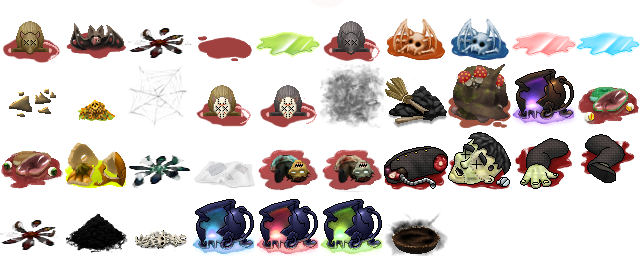
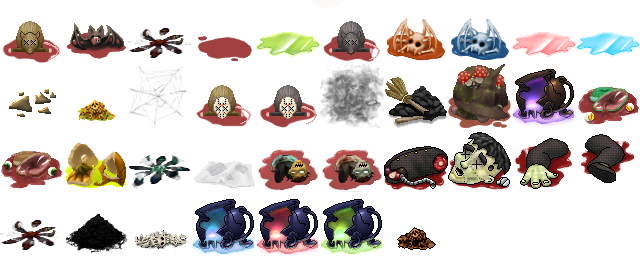
ADD New monster : Tarantula

Changed region(s): [[0.5938, 0.8438, 0.7188, 1.0]]

diff --git a/src/WitchBlastGame.cpp b/src/WitchBlastGame.cpp
@@ -1235,7 +1235,8 @@ void WitchBlastGame::updateRunningGame()
         {
           initMonsterArray();
           findPlaceMonsters(EnemyTypeSpiderEgg_invocated, 2);
-          findPlaceMonsters(EnemyTypeSpiderLittle_invocated, 2);
+          findPlaceMonsters(EnemyTypeSpiderLittle, 2);
+          findPlaceMonsters(EnemyTypeSpiderTarantula, 2);
         }
       }
       if (event.key.code == sf::Keyboard::F12)
@@ -1257,8 +1258,12 @@ void WitchBlastGame::updateRunningGame()
       }
       if (event.key.code == sf::Keyboard::F4)
       {
-        for (int i = 0; i < NUMBER_ITEMS - NUMBER_EQUIP_ITEMS; i++)
-          new ItemEntity((enumItemType)i, 100 + (i % 14) * 58, 100 + (i / 14) * 60);
+        if (sf::Keyboard::isKeyPressed(sf::Keyboard::LAlt))
+          for (int i = 0; i < NUMBER_ITEMS - NUMBER_EQUIP_ITEMS; i++)
+            new ItemEntity((enumItemType)i, 100 + (i % 14) * 58, 100 + (i / 14) * 60);
+        else
+          for (int i = NUMBER_ITEMS - NUMBER_EQUIP_ITEMS; i < NUMBER_ITEMS; i++)
+            new ItemEntity((enumItemType)i, 100 + (i % 14) * 58, 100 + (i / 14) * 60);
       }
 #endif // TEST_MODE
     }
@@ -3855,7 +3860,7 @@ void WitchBlastGame::refreshMap()
   EntityManager::getInstance().partialClean(10);
 
   // if new map, it has to be randomized
-  bool generateMap = !(currentFloor->getMap(floorX, floorY)->isVisited());
+  bool generateMap =  !(currentFloor->getMap(floorX, floorY)->isVisited());
   currentMap = currentFloor->getAndVisitMap(floorX, floorY);
 
   // load the map
@@ -4625,8 +4630,14 @@ void WitchBlastGame::addMonster(enemyTypeEnum monsterType, float xm, float ym)
   case EnemyTypeSpiderEgg:
     new SpiderEggEntity(xm, ym, false);
     break;
+  case EnemyTypeSpiderEgg_invocated:
+    new SpiderEggEntity(xm, ym, true);
+    break;
   case EnemyTypeSpiderLittle:
-    new LittleSpiderEntity(xm, ym, false);
+    new LittleSpiderEntity(xm, ym, SpiderTypeStandard, false);
+    break;
+  case EnemyTypeSpiderTarantula:
+    new LittleSpiderEntity(xm, ym, SpiderTypeTarantula, false);
     break;
   case EnemyTypeGhost:
     new GhostEntity(xm, ym);
@@ -4644,11 +4655,11 @@ void WitchBlastGame::addMonster(enemyTypeEnum monsterType, float xm, float ym)
     new SausageEntity(xm, ym, false);
     break;
 
-  case EnemyTypeSpiderEgg_invocated:
-    new SpiderEggEntity(xm, ym, true);
-    break;
   case EnemyTypeSpiderLittle_invocated:
-    new LittleSpiderEntity(xm, ym, true);
+    new LittleSpiderEntity(xm, ym, SpiderTypeStandard, true);
+    break;
+  case EnemyTypeSpiderTarantula_invocated:
+    new LittleSpiderEntity(xm, ym, SpiderTypeTarantula, true);
     break;
 
   case EnemyTypeBubble:
@@ -6675,6 +6686,10 @@ std::string WitchBlastGame::enemyToString(enemyTypeEnum enemyType)
   case EnemyTypeSpiderLittle:
   case EnemyTypeSpiderLittle_invocated:
     value = "enemy_type_spider_little";
+    break;
+  case EnemyTypeSpiderTarantula:
+  case EnemyTypeSpiderTarantula_invocated:
+    value = "enemy_type_spider_tarantula";
     break;
   case EnemyTypeSpiderWeb:
     value = "enemy_type_spider_web";

diff --git a/src/LittleSpiderEntity.cpp b/src/LittleSpiderEntity.cpp
@@ -7,7 +7,7 @@
 #include "Constants.h"
 #include "WitchBlastGame.h"
 
-LittleSpiderEntity::LittleSpiderEntity(float x, float y, bool invocated)
+LittleSpiderEntity::LittleSpiderEntity(float x, float y, EnumSpiderType spideType, bool invocated)
   : EnemyEntity (ImageManager::getInstance().getImage(IMAGE_LITTLE_SPIDER), x, y)
 {
   imagesProLine = 8;
@@ -16,17 +16,33 @@ LittleSpiderEntity::LittleSpiderEntity(float x, float y, bool invocated)
   hp = 16;
   meleeDamages = 5;
 
+  this->spideType = spideType;
+  if (spideType == SpiderTypeTarantula)
+  {
+    enemyType = invocated ? EnemyTypeSpiderTarantula_invocated : EnemyTypeSpiderTarantula;
+    frame = 8;
+    deathFrame = FRAME_CORPSE_LITTLE_SPIDER_TARANTULA;
+    dyingFrame = 11;
+  }
+  else
+  {
+    enemyType = invocated ? EnemyTypeSpiderLittle_invocated : EnemyTypeSpiderLittle;
+    frame = 0;
+    deathFrame = FRAME_CORPSE_LITTLE_SPIDER;
+    dyingFrame = 3;
+  }
+
+
   type = invocated ? ENTITY_ENEMY_INVOCATED : ENTITY_ENEMY;
-  enemyType = invocated ? EnemyTypeSpiderLittle_invocated : EnemyTypeSpiderLittle;
+
   bloodColor = BloodGreen;
   shadowFrame = 4;
-  dyingFrame = 3;
-  deathFrame = FRAME_CORPSE_LITTLE_SPIDER;
+
+
   agonizingSound = SOUND_SPIDER_LITTLE_DIE;
 
   timer = -1.0f; //(rand() % 50) / 10.0f;
   if (invocated) age = 0.0f;
-  frame = 8;
 
   sprite.setOrigin(32.0f, 40.0f);
 
@@ -46,6 +62,8 @@ void LittleSpiderEntity::animate(float delay)
       roaming = false;
     }
     frame = ((int)(age * (roaming ? 1.5f : 5.0f))) % 3;
+    if (spideType == SpiderTypeTarantula)
+      frame += 8;
   }
 
   EnemyEntity::animate(delay);
@@ -103,6 +121,6 @@ void LittleSpiderEntity::collideWithEnemy(EnemyEntity* entity)
 
 void LittleSpiderEntity::drop()
 {
-  if (enemyType == EnemyTypeSpiderLittle)
+  if (type == ENTITY_ENEMY)
     EnemyEntity::drop();
 }

diff --git a/src/Scoring.h b/src/Scoring.h
@@ -49,6 +49,9 @@ int getMonsterScore(enemyTypeEnum monster)
 
     case EnemyTypePumpkin:        score = 15; break;
 
+    case EnemyTypeSpiderTarantula:
+                                  score = 20; break;
+
     case EnemyTypeWitch:          score = 25; break;
     case EnemyTypeWitchRed:       score = 25; break;
     case EnemyTypeCauldron:       score = 25; break;
@@ -93,6 +96,7 @@ int getMonsterScore(enemyTypeEnum monster)
     case EnemyTypeRockMissile:
     case EnemyTypeSpiderEgg_invocated:
     case EnemyTypeSpiderLittle_invocated:
+    case EnemyTypeSpiderTarantula_invocated:
     case EnemyTypeSpiderWeb:
     case EnemyTypeZombie_invocated:
     case EnemyTypeSausage_invocated:

diff --git a/src/LittleSpiderEntity.h b/src/LittleSpiderEntity.h
@@ -4,10 +4,12 @@
 #include "EnemyEntity.h"
 #include "PlayerEntity.h"
 
+enum EnumSpiderType { SpiderTypeStandard, SpiderTypeTarantula };
+
 class LittleSpiderEntity : public EnemyEntity
 {
   public:
-    LittleSpiderEntity(float x, float y, bool invocated);
+    LittleSpiderEntity(float x, float y, EnumSpiderType spideType, bool invocated);
     virtual void animate(float delay);
     virtual void calculateBB();
   protected:
@@ -22,6 +24,7 @@ class LittleSpiderEntity : public EnemyEntity
   private:
     float timer;
     bool roaming;
+    EnumSpiderType spideType;
 };
 
 #endif // LITTLESPIDERENTITY_H

diff --git a/src/BaseCreatureEntity.h b/src/BaseCreatureEntity.h
@@ -32,6 +32,7 @@ enum enemyTypeEnum
   EnemyTypeCauldronElemental,
   EnemyTypeSpiderEgg,
   EnemyTypeSpiderLittle,
+  EnemyTypeSpiderTarantula,
   EnemyTypeGhost,
   EnemyTypeZombie,
   EnemyTypeZombieDark,
@@ -71,6 +72,7 @@ enum enemyTypeEnum
   EnemyTypePumpkin_invocated,
   EnemyTypeSpiderEgg_invocated,
   EnemyTypeSpiderLittle_invocated,
+  EnemyTypeSpiderTarantula_invocated,
   EnemyTypeZombie_invocated,
   EnemyTypeSausage_invocated,
 

diff --git a/src/SpiderEggEntity.cpp b/src/SpiderEggEntity.cpp
@@ -67,7 +67,7 @@ void SpiderEggEntity::animate(float delay)
 
 void SpiderEggEntity::dyingFromAge()
 {
-  LittleSpiderEntity* ls = new LittleSpiderEntity(x, y, invocated);
+  LittleSpiderEntity* ls = new LittleSpiderEntity(x, y, SpiderTypeStandard, invocated);
   ls->setAge(-0.3f);
 
   for (int i = 0; i < 4; i++)

diff --git a/src/Constants.h b/src/Constants.h
@@ -339,7 +339,7 @@ enum corpses_ressources{
   FRAME_CORPSE_CAULDRON_BLUE,
   FRAME_CORPSE_CAULDRON_RED,
   FRAME_CORPSE_CAULDRON_GREEN,
-  FRAME_CORPSE_BARREL,
+  FRAME_CORPSE_LITTLE_SPIDER_TARANTULA,
 
   FRAME_CORPSE_KING_RAT,
   FRAME_CORPSE_GIANT_SLIME,
